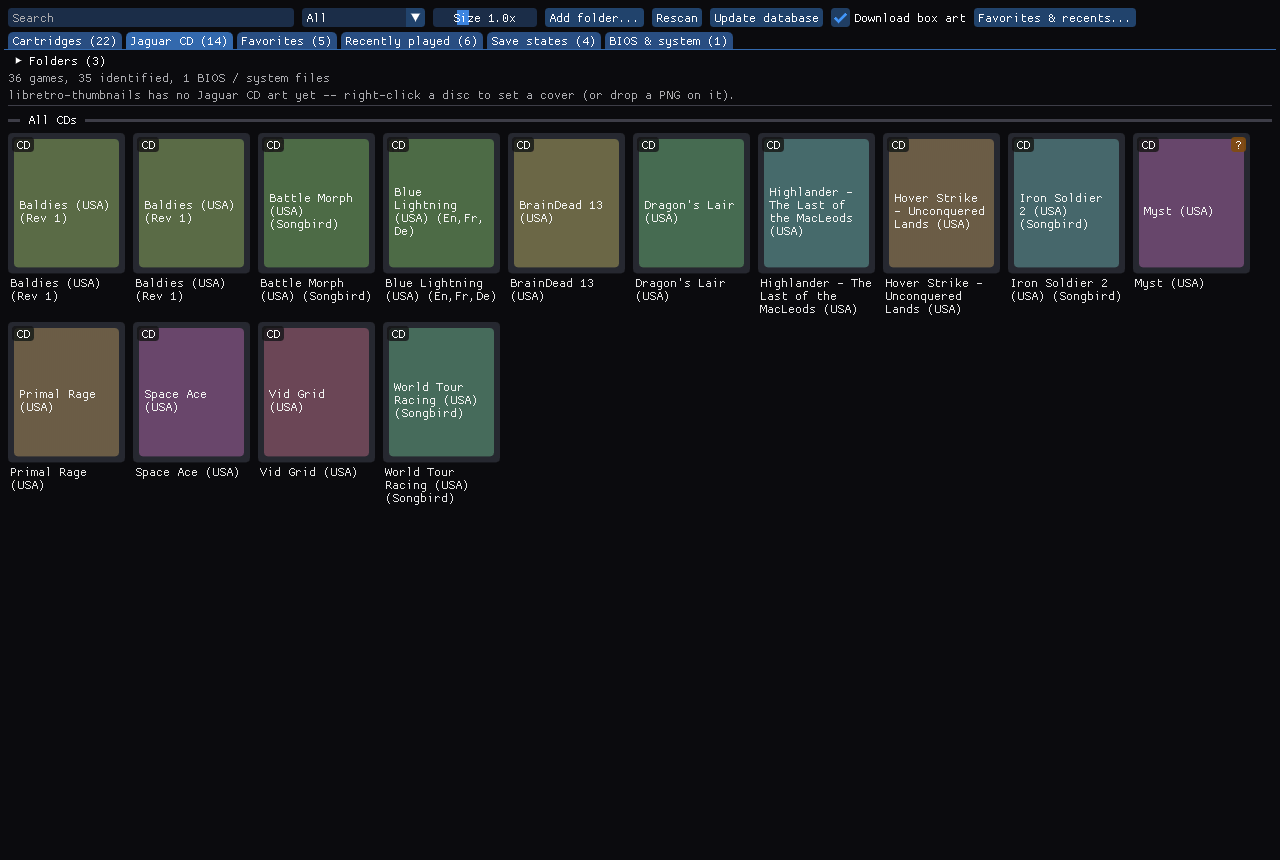
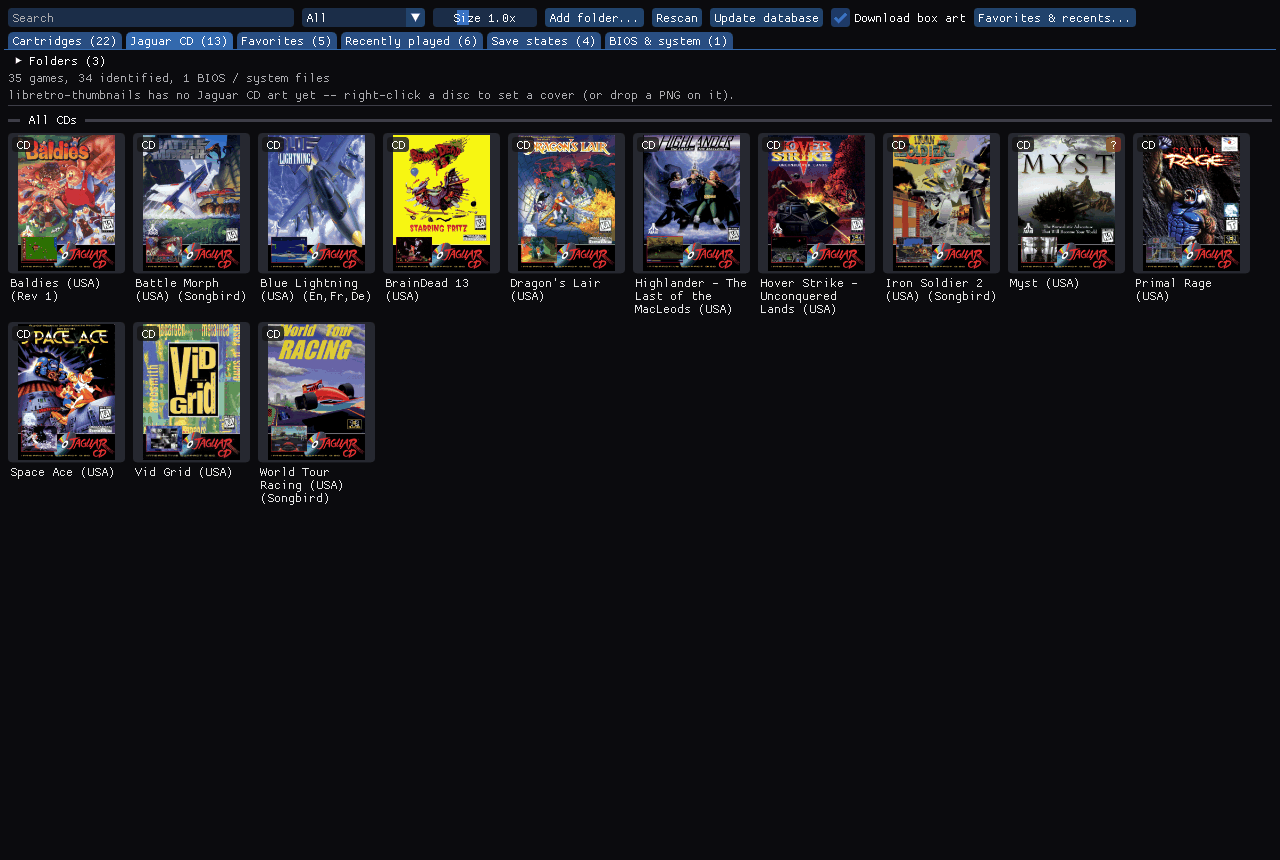
docs(site): refresh the app gallery: RetroAchievements art, Jaguar CD shots, gdb recipe, tighter layout
RetroAchievements: the grey badge squares came from the mock session itself,
not from a rendering bug. A --ra-mock session never uses the network
(updateImageNetwork() forces it off) and the image cache only reads
<data-dir>/ra-cache/, so a fresh capture data dir had nothing to draw. The shots
are retaken with that cache seeded from the public media.retroachievements.org
images of a real Jaguar set (Ultra Vortek, 18 achievements, in the demo
library), and a mock fixture dir holding the real public achievement list and
Jaguar / Jaguar CD game lists. Account, progress and unlock dates are invented;
no real account is involved.

Jaguar CD: discs boot and run in the current app, and box art now downloads
for the CD tab, so app_library_cd.png is retaken and a Blue Lightning CD
gameplay card is added.

Galleries now hold an even number of cards (Playing 8, Look & feel 8,
RetroAchievements & Discord 4 after dropping the empty-looking Profile card,
Developer tools 8) and the grid is fixed at 4 columns (2 below 60rem, 1 below
34rem) in a marked "/* app page */" block at the end of style.css, with
tighter gaps and captions and two-column bullet intros. Developer tools gains
the gdb recipe and a link to docs/gdb-stub-guide.md.

Changed region(s): [[0.0, 0.1512, 0.9688, 0.5744], [0.3438, 0.0, 0.375, 0.0302]]

diff --git a/site/pages/app.html b/site/pages/app.html
@@ -117,9 +117,9 @@
   <h2>Screenshot gallery</h2>
   <div class="win-body">
     <p>
-      Click a picture to enlarge it; Esc closes the viewer and the arrow keys
-      move between pictures. The pictures are real captures of the app with a
-      demo library (no personal data, no signed-in account).
+      Click a picture to enlarge it (Esc closes, arrow keys move on). All
+      real captures of the app with a demo library: no personal data, no
+      signed-in account.
     </p>
 
     <h3 id="library">Library &amp; artwork</h3>
@@ -127,7 +127,7 @@
       <li>Your games on the home screen, in Cartridges, Jaguar CD and BIOS &amp; system tabs, with search, filters and a size slider.</li>
       <li>Identified by CRC32 against the libretro database (No-Intro, Redump); box art comes from libretro-thumbnails on demand and is cached.</li>
       <li>Favorites and Recently played, as tabs, strips or both; a Save states tab lists every game with states.</li>
-      <li>Covers for Jaguar CD: a readable title card, or your own PNG.</li>
+      <li>Jaguar CD discs get their box art the same way; a disc without art gets a readable title card, or your own PNG.</li>
     </ul>
     <div class="gallery">
       <figure class="gal-card">
@@ -138,9 +138,9 @@
       </figure>
       <figure class="gal-card">
         <a class="gal-link" href="assets/app_library_cd.png" aria-label="Enlarge: Jaguar CD">
-          <img src="assets/app_library_cd.png" width="1280" height="860" loading="lazy" alt="The Jaguar CD tab: a grid of disc tiles, each a coloured title card with the game name, and a note that libretro-thumbnails has no Jaguar CD art yet.">
+          <img src="assets/app_library_cd.png" width="1280" height="860" loading="lazy" alt="The Jaguar CD tab: a grid of thirteen disc tiles with Jaguar CD box art (Baldies, Battle Morph, Blue Lightning, BrainDead 13, Dragon&#x27;s Lair, Highlander, Hover Strike, Iron Soldier 2, Myst, Primal Rage, Space Ace, Vid Grid, World Tour Racing), each with a CD badge and the game name.">
         </a>
-        <figcaption><strong>Jaguar CD</strong> <span class="gal-cap">Discs without upstream art get a readable title card; set your own cover with a PNG.</span></figcaption>
+        <figcaption><strong>Jaguar CD</strong> <span class="gal-cap">Thirteen discs with box art from libretro-thumbnails; set your own cover with a PNG for any that lack it.</span></figcaption>
       </figure>
       <figure class="gal-card">
         <a class="gal-link" href="assets/app_library_states.png" aria-label="Enlarge: Save states tab">
@@ -207,6 +207,12 @@
         </a>
         <figcaption><strong>A game running</strong> <span class="gal-cap">Skyhammer, with the picture scaled to the window.</span></figcaption>
       </figure>
+      <figure class="gal-card">
+        <a class="gal-link" href="assets/app_cd_gameplay.png" aria-label="Enlarge: A Jaguar CD game running">
+          <img src="assets/app_cd_gameplay.png" width="1280" height="860" loading="lazy" alt="Blue Lightning running from a Jaguar CD image: a jet fighter seen from behind, flying low over a layer of clouds under a pale blue sky.">
+        </a>
+        <figcaption><strong>A Jaguar CD game</strong> <span class="gal-cap">Blue Lightning, started from its .cue file, in flight. Discs boot with the built-in CD BIOS.</span></figcaption>
+      </figure>
     </div>
 
     <h3 id="look">Look &amp; feel</h3>
@@ -244,6 +250,12 @@
           <img src="assets/app_settings_video.png" width="1280" height="860" loading="lazy" alt="Settings, Video tab: integer scaling, smooth filter, stretch, aspect ratio, VSync and fullscreen options, and a Shader section with the crt-gdv-mini-ultra-trinitron preset selected above a list of 500 built-in presets.">
         </a>
         <figcaption><strong>Video settings</strong> <span class="gal-cap">Integer scaling, filter, aspect ratio and the shader list with its CRT presets.</span></figcaption>
+      </figure>
+      <figure class="gal-card">
+        <a class="gal-link" href="assets/app_game_lottes.png" aria-label="Enlarge: Another shader preset">
+          <img src="assets/app_game_lottes.png" width="1280" height="860" loading="lazy" alt="The Rayman title screen through the crt-lottes shader preset: a slightly curved screen with a dark rounded border, visible scanlines and a soft glow around the bright lettering.">
+        </a>
+        <figcaption><strong>Another preset</strong> <span class="gal-cap">crt-lottes on the Rayman title: curved glass, scanlines and glow. Presets are one click in Settings &gt; Video.</span></figcaption>
       </figure>
       <figure class="gal-card">
         <a class="gal-link" href="assets/app_settings_interface.png" aria-label="Enlarge: Interface settings">
@@ -312,21 +324,15 @@
       </figure>
       <figure class="gal-card">
         <a class="gal-link" href="assets/app_ra_achievements.png" aria-label="Enlarge: Achievements, this game">
-          <img src="assets/app_ra_achievements.png" width="1280" height="860" loading="lazy" alt="The Achievements window on the This game tab: a progress bar at 38 percent, 3 of 8 achievements and 30 of 90 points, then a list of achievements with titles, descriptions, points, how many players earned them and whether each is locked or unlocked in hardcore or softcore.">
+          <img src="assets/app_ra_achievements.png" width="1280" height="860" loading="lazy" alt="The Achievements window on the This game tab for Ultra Vortek over its title screen: the game icon, a progress bar at 61 percent, 11 of 18 achievements and 145 of 215 points, then a list with grey locked badges followed by coloured unlocked badges, each with a title, description, points, how many players earned it and the unlock date.">
         </a>
-        <figcaption><strong>This game</strong> <span class="gal-cap">Badges, points, rarity and unlock dates, with filters, sorting and search.</span></figcaption>
+        <figcaption><strong>This game</strong> <span class="gal-cap">Badge art, points, rarity and unlock dates, with filters, sorting and search.</span></figcaption>
       </figure>
       <figure class="gal-card">
         <a class="gal-link" href="assets/app_ra_games.png" aria-label="Enlarge: Achievements, Jaguar games">
-          <img src="assets/app_ra_games.png" width="1280" height="860" loading="lazy" alt="The Achievements window on the Jaguar games tab filtered to In my library: three games with achievement counts, points, progress bars and Play buttons.">
+          <img src="assets/app_ra_games.png" width="1280" height="860" loading="lazy" alt="The Achievements window on the Jaguar games tab filtered to In my library: nine games, cartridges and Jaguar CD discs, each with its icon, achievement count, points, a progress bar and a Play button; the running game shows Playing.">
         </a>
         <figcaption><strong>Jaguar games</strong> <span class="gal-cap">Every Jaguar and Jaguar CD game with achievements, your progress, and Play for those in your library.</span></figcaption>
-      </figure>
-      <figure class="gal-card">
-        <a class="gal-link" href="assets/app_ra_profile.png" aria-label="Enlarge: Achievements, profile">
-          <img src="assets/app_ra_profile.png" width="1280" height="860" loading="lazy" alt="The Achievements window on the Profile tab: a user name with hardcore and softcore points, a Sign out button, the Download pictures option and an Unlocked this session list.">
-        </a>
-        <figcaption><strong>Profile</strong> <span class="gal-cap">Your points, the softcore or hardcore rule in force, and what you unlocked this session.</span></figcaption>
       </figure>
       <figure class="gal-card">
         <a class="gal-link" href="assets/app_settings_discord.png" aria-label="Enlarge: Discord settings">
@@ -336,9 +342,11 @@
       </figure>
     </div>
     <p class="footnote">
-      The RetroAchievements pictures come from the app&rsquo;s built-in mock
-      server (a sample account and sample games), so no real account or
-      network was involved, and Discord was off for its picture.
+      The RetroAchievements pictures use the app&rsquo;s built-in mock server,
+      so no real account or sign-in was involved. It answers with the real,
+      public achievement list and artwork of the games shown (from
+      retroachievements.org and its image host); the account, progress and
+      unlock dates are made up. Discord was off for its picture.
     </p>
 
     <h3 id="devtools">Developer tools</h3>
@@ -346,7 +354,20 @@
       <li>A Tools menu for the game that is running: memory viewer and editor, palette (CLUT) editor, cheat scanner, Object Processor list, blitter log, texture browser and audio scope.</li>
       <li>A CPU debugger with 68000, GPU and DSP tabs: registers, disassembly, breakpoints, step, step over and run to cursor (F9 breaks, F10 steps).</li>
       <li>Writes go to RAM freely; hardware registers need a tick-box, and everything is off under RetroAchievements hardcore. RetroArch is unaffected.</li>
+      <li><strong>gdb:</strong> the core also speaks the GDB remote protocol, so a real <code>gdb</code> can set breakpoints, read memory and registers and step the 68000 (the GPU and DSP via <code>monitor</code> commands). Off by default, loopback only. LLDB can attach but cannot debug the 68000. The <a href="{{REPO}}/blob/develop/docs/gdb-stub-guide.md">GDB remote debugging guide</a> has the rest.</li>
     </ul>
+    <pre><code>$ virtualjaguar --option virtualjaguar_gdb_stub=enabled --option virtualjaguar_gdb_wait=enabled game.jag
+$ gdb -ex 'set endian big' -ex 'target remote 127.0.0.1:2345'
+(gdb) x/3i $pc
+(gdb) stepi</code></pre>
+    <p class="footnote">
+      The first option turns the stub on (Settings, search &ldquo;gdb&rdquo;,
+      does the same; reopen the game); the second halts the 68000 before its
+      first instruction so gdb attaches at the start. Use a gdb with m68k
+      support (Homebrew <code>gdb</code>; <code>gdb-multiarch</code> on Debian
+      and Ubuntu); <code>set endian big</code> is needed, or every word reads
+      byte-swapped.
+    </p>
     <div class="gallery">
       <figure class="gal-card">
         <a class="gal-link" href="assets/app_dbg_cpu.png" aria-label="Enlarge: CPU debugger">

diff --git a/site/style.css b/site/style.css
@@ -824,3 +824,27 @@ dialog.lightbox::backdrop { background: rgba(0, 0, 0, 0.78); }
   a { color: #000; text-decoration: underline; }
   main { max-width: none; }
 }
+
+/* app page */
+/* The screenshot galleries (only app.html uses .gallery): always 4 columns, 2 on
+ * narrower screens, never 3 -- every gallery holds an even number of cards, so
+ * the last row is never ragged.  Tighter gaps and captions mean less scrolling. */
+.gallery {
+  grid-template-columns: repeat(4, minmax(0, 1fr));
+  gap: 0.7rem;
+  margin: 0.8rem 0 1.2rem;
+}
+.gal-link { padding: 4px; }
+.gal-card figcaption { padding: 0.35rem 0.5rem 0.45rem; font-size: 0.78rem; line-height: 1.35; }
+.gal-card figcaption strong { font-size: 0.82rem; }
+.win-body > h3 { margin-top: 1.3rem; }
+/* The short bullet intros above each gallery run in two columns on wide screens. */
+#gallery .win-body > ul { max-width: none; columns: 2; column-gap: 2rem; margin-bottom: 0.7rem; }
+#gallery .win-body > ul > li { break-inside: avoid; }
+@media (max-width: 60rem) {
+  .gallery { grid-template-columns: repeat(2, minmax(0, 1fr)); }
+  #gallery .win-body > ul { columns: 1; max-width: 46rem; }
+}
+@media (max-width: 34rem) {
+  .gallery { grid-template-columns: minmax(0, 1fr); }
+}
